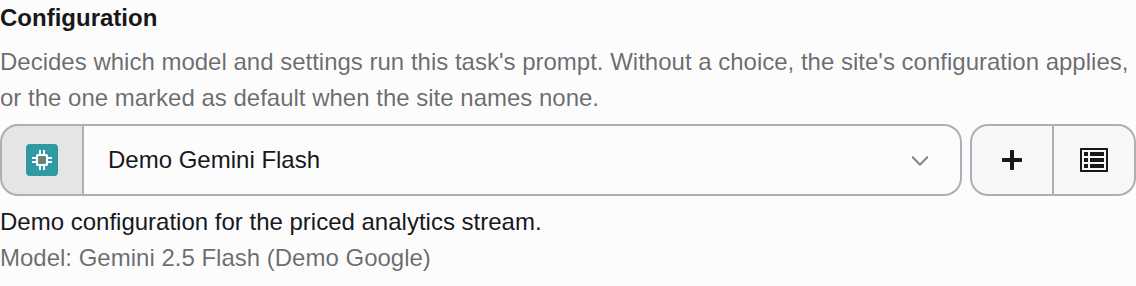
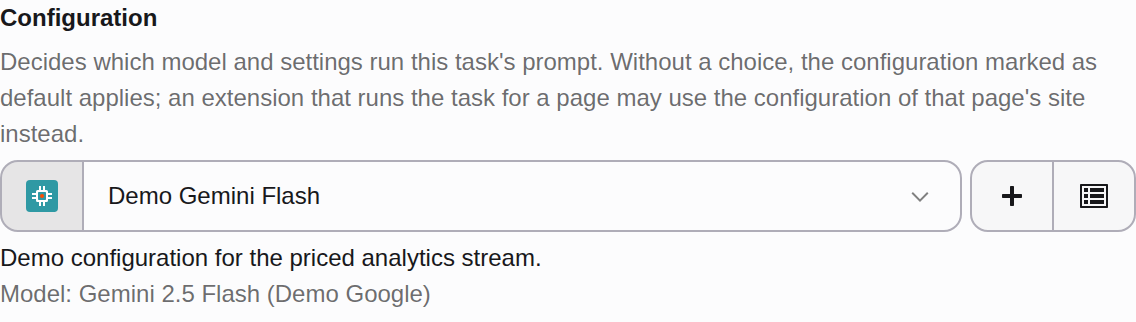
fix(form): say what a task without a configuration really runs on
The reworded description of a task's configuration said the site's
configuration applies without a choice. The task module's runs pass no
site, so the configuration marked as default applies; an extension that
runs a task for a page can still use that page's site.

The provider's docblock and ADR-255 now say that the facts name related
records by name, beyond the offered options. A Playwright case covers
the side-by-side select: the arrow keys move through the available
items and the text follows them. The administration page says that
only administrators create records on the root level; the screenshot
shows the corrected description.

Assisted-by: claude-code:claude-opus-5-5
Agent-Session: 6e909cd5-e442-4e09-a000-288113fda5ca
Agent-Host: 0493f0

diff --git a/Tests/E2E/Playwright/record-select-help.spec.ts b/Tests/E2E/Playwright/record-select-help.spec.ts
@@ -43,6 +43,32 @@ test.describe('Record select help', () => {
     await expect(help).not.toContainText('Writes short teasers');
   });
 
+  test('describes each available item while the arrow keys move through a side-by-side select', async ({ authenticatedPage: page }) => {
+    // A new term list: its configurations field is a selectMultipleSideBySide.
+    await page.goto('/typo3/record/edit?edit%5Btx_nrllm_term_list%5D%5B0%5D=new&returnUrl=%2Ftypo3%2Fmain');
+    const frame = getModuleFrame(page);
+    const field = frame.locator('.formengine-field-item').filter({ has: frame.locator('.nrllm-choice-help') });
+    const available = field.locator('select.t3js-formengine-select-itemstoselect');
+    await available.waitFor({ state: 'visible', timeout: 15000 });
+    const help = field.locator('.nrllm-choice-help');
+    const helpId = await help.getAttribute('id');
+    expect((await available.getAttribute('aria-describedby') ?? '').split(' ')).toContain(helpId);
+
+    // Keyboard only: step through the available items until "E2E Choice A",
+    // then one further to "E2E Choice B". Moving does not add an item.
+    await available.focus();
+    const chosen = () => available.evaluate((select: HTMLSelectElement) => select.selectedOptions[0]?.textContent?.trim() ?? '');
+    for (let step = 0; step < 20 && await chosen() !== 'E2E Choice A'; step++) {
+      await page.keyboard.press('ArrowDown');
+    }
+    expect(await chosen()).toBe('E2E Choice A');
+    await expect(help).toContainText('Writes short teasers');
+    await page.keyboard.press('ArrowDown');
+    expect(await chosen()).toBe('E2E Choice B');
+    await expect(help).toContainText('Checks legal wording');
+    await expect(help).not.toContainText('Writes short teasers');
+  });
+
   test('offers creating and managing configurations to an administrator', async ({ authenticatedPage: page }) => {
     await page.goto(TASK_EDIT_URL);
     const frame = getModuleFrame(page);

diff --git a/Resources/Public/JavaScript/Backend/ChoiceHelp.js b/Resources/Public/JavaScript/Backend/ChoiceHelp.js
@@ -38,7 +38,7 @@ export function summaryFor(map, value) {
 
 /**
  * The option a change of this select is about: the chosen one of a single
- * select, the last activated one of a multiple select.
+ * select, the last selected one (in list order) of a multiple select.
  *
  * @param {HTMLSelectElement} select
  * @returns {string}

diff --git a/Classes/Form/ChoiceHelp/ChoiceSummaryProvider.php b/Classes/Form/ChoiceHelp/ChoiceSummaryProvider.php
@@ -17,8 +17,10 @@ use TYPO3\CMS\Core\Database\Query\Restriction\DeletedRestriction;
  * Describes the options of a record select: the record's description and
  * the facts its label does not show (ADR-255).
  *
- * Reads only the uids it is given — the wizard passes the options FormEngine
- * already offers, so no record the editor cannot choose reaches the page.
+ * Describes only the uids it is given — the wizard passes the options
+ * FormEngine already offers. The facts name related records (a model's
+ * provider, a configuration's model, a task's configuration) without a
+ * further table permission check: names only.
  * Hidden records are described too: a select keeps showing a hidden record
  * that is already chosen.
  *

diff --git a/Classes/Form/FieldWizard/ChoiceHelpWizard.php b/Classes/Form/FieldWizard/ChoiceHelpWizard.php
@@ -124,8 +124,9 @@ final class ChoiceHelpWizard extends AbstractNode
     }
 
     /**
-     * The chosen uid of a single select; 0 for none or for a multiple select,
-     * whose text appears once an option is activated.
+     * The chosen uid: of a single select, or of a multiple select holding
+     * exactly one item; 0 otherwise, and the text appears once an option is
+     * chosen.
      */
     private function currentUid(): int
     {

diff --git a/Documentation/Adr/Adr255ARecordSelectExplainsTheChosenOption.rst b/Documentation/Adr/Adr255ARecordSelectExplainsTheChosenOption.rst
@@ -53,8 +53,9 @@ the facts its label hides.** ``nrllmChoiceHelp``
   model by criteria or has none yet; a task names its configuration; a model
   names its provider and model ID; a provider its adapter; a skill its
   identifier;
-- only the options FormEngine already offers are described, so no record the
-  user cannot choose reaches the page; the text is written as text, never as
+- only the options FormEngine already offers are described; the facts name
+  related records (a model's provider, a configuration's model, a task's
+  configuration) by name only. The text is written as text, never as
   markup;
 - the element is tied to every select of the field with ``aria-describedby``
   and is a polite, atomic live region. Polite, because the new text belongs
@@ -63,7 +64,7 @@ the facts its label hides.** ``nrllmChoiceHelp``
   explanation until the select is focused again. Checked in Chromium's
   accessibility tree on 13.4 and 14.3: the select's description is the help
   text and changes with the arrow keys;
-- ``selectMultipleSideBySide``: the text follows the option last activated in
+- ``selectMultipleSideBySide``: the text follows the option last chosen in
   either list, so moving through the available items with the arrow keys
   compares them one by one (``change`` fires on arrow keys in Chromium and
   Firefox on both TYPO3 versions).

diff --git a/Documentation/Administration/RecordSelects.rst b/Documentation/Administration/RecordSelects.rst
@@ -43,7 +43,9 @@ Next to the list
 :guilabel:`Create new` (plus icon)
    Creates a record of that kind and selects it. Shown only when you may
    create such a record on this page: the record type must be editable for
-   you, and you need the right to edit content on the page.
+   you, and you need the right to edit content on the page. On the root
+   level, where nr-llm keeps its records by default, only administrators
+   may create them.
 
 :guilabel:`Show and manage all …` (list icon)
    Opens the backend module that lists these records. Shown only when you
